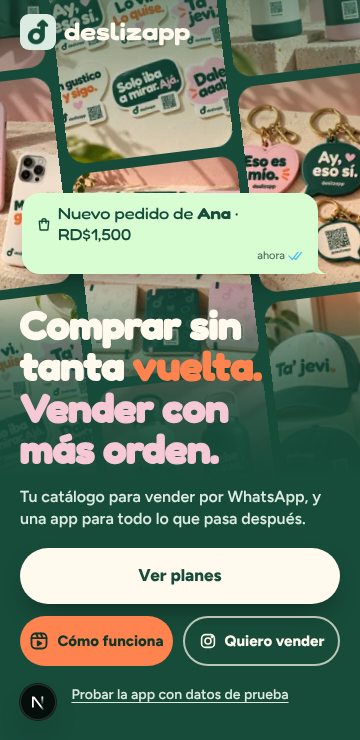
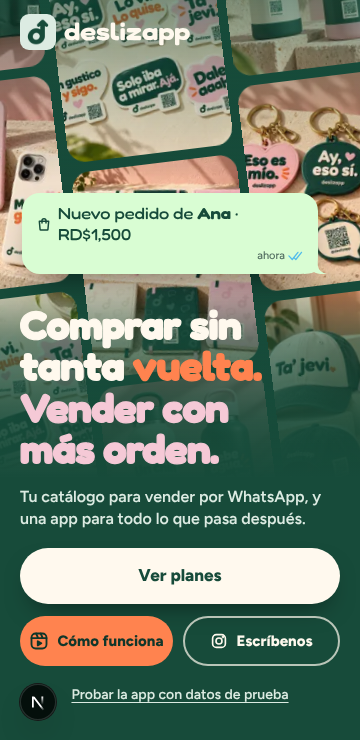
«Quiero vender» pasa a «Escríbenos» (mismo destino, el Instagram, y mismo icono)
- Texto visible cambiado en la portada /, el último reel del catálogo, los botones de abajo de /planes y el cierre de «Cómo funciona» (incluida su nota «Las tiendas entran por invitación. Escríbenos.»).
- Los eventos de medición conservan su nombre (cta_quiero_vender, catalogo_cta_quiero_vender, conoce_cta_vender): anotado en docs/18-medicion.md.
- Pruebas actualizadas (probar-inicio, probar-landing, probar-finales-catalogo); capturas del reel a 393 y 360 y de / a 393.

Claude-Session: https://claude.ai/code/session_01Loom2EPGPwx2Q7teB8BDio

diff --git a/components/inicio-publico/portada-inicio.tsx b/components/inicio-publico/portada-inicio.tsx
@@ -15,7 +15,7 @@ const ANTES_DE_PINTAR = `(function(){try{if(localStorage.getItem(${JSON.stringif
  * Todo lo que se ve de la página principal de deslizapp.com sin sesión (docs/prompts/pagina-principal-y-conoce.md,
  * referencias/inicio/inicio.dc.html): de fondo, el feed de fotos en tres columnas (seis en escritorio) que suben sin parar; un
  * corazón «aaah» y burbujas de pedido que aparecen en bucle (./vivo.tsx); abajo, el lema, «Iniciar sesión» con Google (en el reel del catálogo, «Ver planes»),
- * «Cómo funciona» (la landing, en /conoce), «Quiero vender» (el Instagram) y el enlace a la demo. Con movimiento reducido, todo quieto.
+ * «Cómo funciona» (la landing, en /conoce), «Escríbenos» (el Instagram) y el enlace a la demo. Con movimiento reducido, todo quieto.
  *
  * Lo usan `/` (`modo="pagina"`, con las fotos de la tienda Deslizapp) y el último reel de cada catálogo (`modo="reel"`, con las fotos
  * y los nombres de los productos de ese catálogo; las columnas y lo vivo solo se mueven con el reel `activo`).
@@ -89,7 +89,7 @@ export function PortadaInicio({
             data-cta="vender"
           >
             <IconoInstagram tamano={18} strokeWidth={2.2} />
-            Quiero vender
+            Escríbenos
           </EnlaceMedido>
         </div>
         {/* Desde un catálogo no hay panel debajo que se abra solo: tras elegir la demo se va a `/`. */}

diff --git a/components/landing/landing.tsx b/components/landing/landing.tsx
@@ -186,7 +186,7 @@ export function Landing() {
           <div className="lt-cierre-hoja">
             <a href={ENLACE_QUIERO_VENDER} target="_blank" rel="noopener noreferrer" data-cta="vender" className="lt-cierre-vender tocable">
               <IconoInstagram tamano={22} strokeWidth={2.2} />
-              Quiero vender
+              Escríbenos
             </a>
             <p className="lt-cierre-nota">Las tiendas entran por invitación. Escríbenos.</p>
             <a href={ENLACE_CATALOGO_EJEMPLO} data-cta="catalogo" className="lt-cierre-catalogo tocable">

diff --git a/lib/landing/enlaces.ts b/lib/landing/enlaces.ts
@@ -2,7 +2,7 @@
 
 import { INSTAGRAM_DESLIZAPP } from "../config";
 
-/** «Quiero vender» (la página principal y el cierre de /conoce): el Instagram de Deslizapp (docs/prompts/pagina-principal-y-conoce.md). */
+/** «Escríbenos» (la página principal y el cierre de /conoce): el Instagram de Deslizapp (docs/prompts/pagina-principal-y-conoce.md). */
 export const ENLACE_QUIERO_VENDER = `https://instagram.com/${INSTAGRAM_DESLIZAPP}`;
 
 /** «Cómo funciona»: la landing con la demo de un pedido. */

diff --git a/components/planes/pagina-planes.tsx b/components/planes/pagina-planes.tsx
@@ -79,7 +79,7 @@ export function PaginaPlanes({ planes, fotos, ahora }: { planes: PlanPublico[]; 
           </Link>
           <a href={ENLACE_QUIERO_VENDER} target="_blank" rel="noopener noreferrer" className="pl-vender tocable">
             <IconoInstagram tamano={18} strokeWidth={2.2} />
-            Quiero vender
+            Escríbenos
           </a>
         </div>
         <p className="pl-pie">Precios en pesos dominicanos. Puedes cambiar de plan cuando quieras.</p>

diff --git a/docs/18-medicion.md b/docs/18-medicion.md
@@ -23,6 +23,8 @@ Encargo: `docs/prompts/medicion-landing.md`. Cuántas personas llegan a la pági
 
 > **17 oct 2026:** la migración `20261017114521_eventos_publicos_planes` (aplicada con `apply_migration`) añade `catalogo_cta_planes` y `cta_planes` a la lista.
 
+> **17 oct 2026:** el botón que decía «Quiero vender» ahora dice «Escríbenos» (mismo destino, el Instagram de Deslizapp, y mismo icono). Los eventos conservan su nombre (`cta_quiero_vender`, `catalogo_cta_quiero_vender`, `conoce_cta_vender`) para no romper los datos.
+
 ## Eventos
 
 | Evento | Cuándo |
